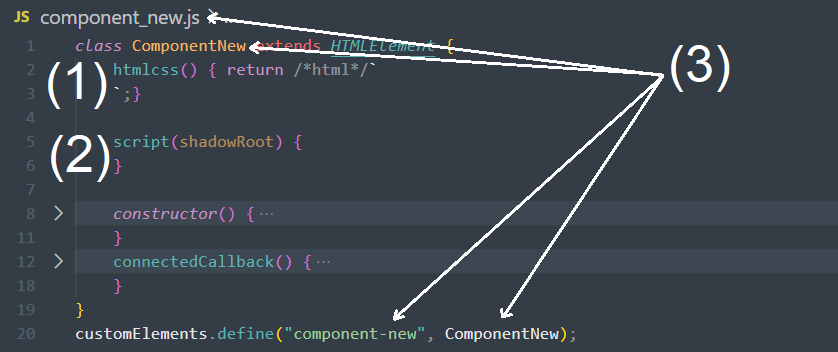
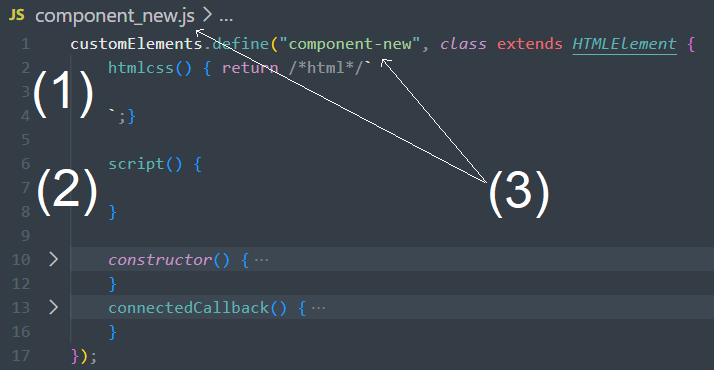
Add files via upload

diff --git a/Example/index.html b/Example/index.html
@@ -5,20 +5,45 @@
     <meta http-equiv="X-UA-Compatible" content="IE=edge">
     <meta name="viewport" content="width=device-width, initial-scale=1.0">
     <title>WebComponent Example</title>
+    <link rel="stylesheet" href="styles.css">
 
+    <script src="./components/component_boxshadow.js"></script>
+    <script src="./components/component_countershadow.js"></script>
     <script src="./components/component_box.js"></script>
     <script src="./components/component_counter.js"></script>
 </head>
 <body>
+    <p>Shadow DOM is not affected by global styling:</p>
+    <pre><code>
+        button {
+            background-color: lightblue;        
+        }
+    </code></pre><br/>
+    <div id="container">
+        <div>
+            <h3>WITH shadow DOM:</h3>
+            <div class="container">
+                <component-countershadow></component-countershadow>
+                <component-countershadow></component-countershadow>
+                <component-boxshadow></component-boxshadow>
+                <component-boxshadow></component-boxshadow>
+            </div>
+        </div>
+        <div>
+            <h3>WITHOUT shadow DOM:</h3>
+            <div class="container">
+                <component-counter></component-counter>
+                <component-counter></component-counter>
+                <component-box></component-box>
+                <component-box></component-box>
+            </div>
+        </div>
+    </div>
+
     <style>
-        component-counter {
-            display: block;
+        button {
+            background-color: lightblue;
         }
     </style>
-
-    <component-box></component-box>
-    <component-box></component-box>
-    <component-counter></component-counter>
-    <component-counter></component-counter>
 </body>
 </html>

diff --git a/Example/components/component_counter.js b/Example/components/component_counter.js
@@ -1,35 +1,27 @@
-class ComponentCounter extends HTMLElement {
+customElements.define("component-counter", class extends HTMLElement {
     htmlcss() { return /*html*/`
-        <style>
-        </style>
-
         <button id="dec">-</button>
         <span id="count"></span>
         <button id="inc">+</button>
     `;}
 
-    script(shadowRoot) {
+    script() {
         let count = 0;
 
-        const update = (count) => shadowRoot.getElementById("count").innerHTML = count;
+        const update = (count) => this.querySelector("#count").innerHTML = count;
         const inc = () => update(++count);
         const dec = () => update(--count);
 
-        shadowRoot.getElementById("inc").onclick = () => inc();
-        shadowRoot.getElementById("dec").onclick = () => dec();
+        this.querySelector("#inc").onclick = () => inc();
+        this.querySelector("#dec").onclick = () => dec();
         update(count);    
     }
 
     constructor() {
         super();
-        this.attachShadow({ mode: "open" });
     }
     connectedCallback() {
-        const shadowRoot = this.shadowRoot;
-        const template = document.createElement('template');
-        template.innerHTML = this.htmlcss();
-        shadowRoot.appendChild(template.content.cloneNode(true));
-        this.script(shadowRoot);
+        this.innerHTML = this.htmlcss();
+        this.script();
     }
-}
-customElements.define("component-counter", ComponentCounter);
+});

diff --git a/Example/components/component_boxshadow.js b/Example/components/component_boxshadow.js
@@ -1,4 +1,4 @@
-customElements.define("component-box", class extends HTMLElement {
+customElements.define("component-boxshadow", class extends HTMLElement {
     htmlcss() { return /*html*/`
         <style>
             #box {
@@ -16,9 +16,9 @@ customElements.define("component-box", class extends HTMLElement {
         <button id="button1">Button 1</button>
     `;}
 
-    script() {
-        const box = this.querySelector('#box');
-        const button1 = this.querySelector('#button1');
+    script(shadowRoot) {
+        const box = shadowRoot.getElementById('box');
+        const button1 = shadowRoot.getElementById('button1');
 
         button1.onclick = () => {
             box.classList.toggle('blue');
@@ -27,9 +27,13 @@ customElements.define("component-box", class extends HTMLElement {
 
     constructor() {
         super();
+        this.attachShadow({ mode: "open" });
     }
     connectedCallback() {
-        this.innerHTML = this.htmlcss();
-        this.script();;
+        const shadowRoot = this.shadowRoot;
+        const template = document.createElement('template');
+        template.innerHTML = this.htmlcss();
+        shadowRoot.appendChild(template.content.cloneNode(true));
+        this.script(shadowRoot);
     }
 });

diff --git a/Example/components/component_countershadow.js b/Example/components/component_countershadow.js
@@ -1,0 +1,31 @@
+customElements.define("component-countershadow", class extends HTMLElement {
+    htmlcss() { return /*html*/`
+        <button id="dec">-</button>
+        <span id="count"></span>
+        <button id="inc">+</button>
+    `;}
+
+    script(shadowRoot) {
+        let count = 0;
+
+        const update = (count) => shadowRoot.getElementById("count").innerHTML = count;
+        const inc = () => update(++count);
+        const dec = () => update(--count);
+
+        shadowRoot.getElementById("inc").onclick = () => inc();
+        shadowRoot.getElementById("dec").onclick = () => dec();
+        update(count);    
+    }
+
+    constructor() {
+        super();
+        this.attachShadow({ mode: "open" });
+    }
+    connectedCallback() {
+        const shadowRoot = this.shadowRoot;
+        const template = document.createElement('template');
+        template.innerHTML = this.htmlcss();
+        shadowRoot.appendChild(template.content.cloneNode(true));
+        this.script(shadowRoot);
+    }
+});

diff --git a/component_new.js b/component_new.js
@@ -1,22 +1,17 @@
-class ComponentNew extends HTMLElement {
+customElements.define("component-new", class extends HTMLElement {
     htmlcss() { return /*html*/`
 
     `;}
 
-    script(shadowRoot) {
+    script() {
         
     }
 
     constructor() {
         super();
-        this.attachShadow({ mode: "open" });
     }
     connectedCallback() {
-        const shadowRoot = this.shadowRoot;
-        const template = document.createElement('template');
-        template.innerHTML = this.htmlcss();
-        shadowRoot.appendChild(template.content.cloneNode(true));
-        this.script(shadowRoot);
+        this.innerHTML = this.htmlcss();
+        this.script();
     }
-}
-customElements.define("component-new", ComponentNew);
+});

diff --git a/Example/styles.css b/Example/styles.css
@@ -1,0 +1,37 @@
+*:not(button) {
+    margin:0;
+    padding:0;
+    box-sizing: border-box;
+}
+*:not(code) {
+    font-family: Verdana, sans-serif;
+}
+body {
+    padding: 20px;
+}
+h3 {
+    margin-bottom: 20px;
+}
+pre {
+    background-color: #e2e2e2;
+    border-radius: 10px;
+    width: fit-content;
+}
+#container {
+    display: flex;
+    gap: 20px;
+}
+#container > div {
+    border-radius: 2rem;
+    display: flex;
+    flex-direction: column;
+    align-items: center;
+    padding: 15px;
+    box-shadow: 0 0 6px 1px #c7c7c7;
+}
+.container {
+    display: flex;
+    flex-direction: column;
+    align-items: center;
+    gap: 10px;
+}

diff --git a/component_newshadow.js b/component_newshadow.js
@@ -1,0 +1,21 @@
+customElements.define("component-new", class extends HTMLElement {
+    htmlcss() { return /*html*/`
+
+    `;}
+
+    script(shadowRoot) {
+        
+    }
+
+    constructor() {
+        super();
+        this.attachShadow({ mode: "open" });
+    }
+    connectedCallback() {
+        const shadowRoot = this.shadowRoot;
+        const template = document.createElement('template');
+        template.innerHTML = this.htmlcss();
+        shadowRoot.appendChild(template.content.cloneNode(true));
+        this.script(shadowRoot);
+    }
+});

diff --git a/README.md b/README.md
@@ -1,12 +1,14 @@
 # Instructions:
 1. Build component html/css within template-string of `htmlcss()`
 2. Build component js within `script()`
-3. Rename: 
-    - code `ComponentNew` & `component-new`
-    - filename `component_new.js`
+3. Rename: filename `component_new.js` & code `component-new`
 
 <img src="./Example/readme_img.png" width=550>
 
 # Usage:
 1. Add `<script src="./components/component_new.js"></script>` to head of target html file
 2. Add `<component-new></component-new>` to body of target html file
+
+# Shadow DOM Option:
+- `component_new.js` is built without a shadow DOM. The contents of the component can be easily manipulated by the parent document's code/styling
+- `component_newshadow.js` is build with a shadow DOM that has independent styling
